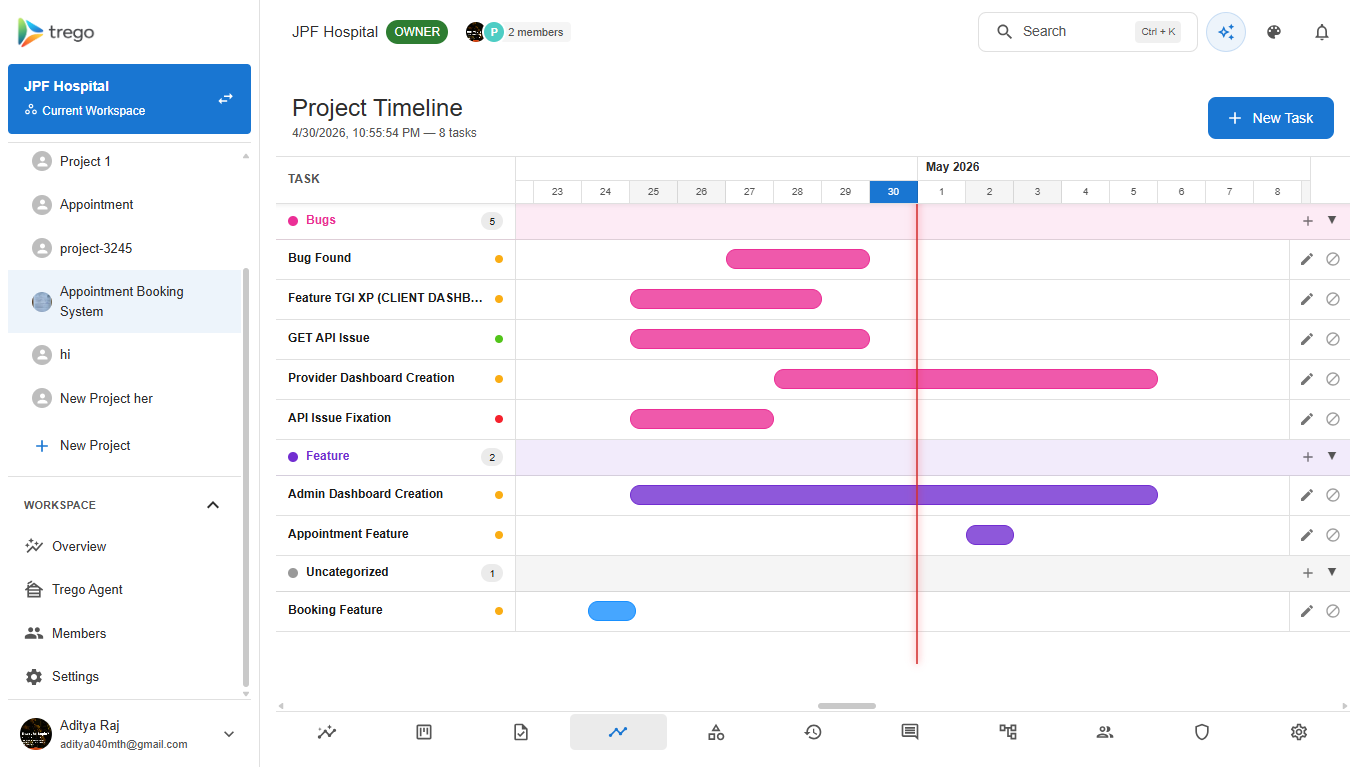
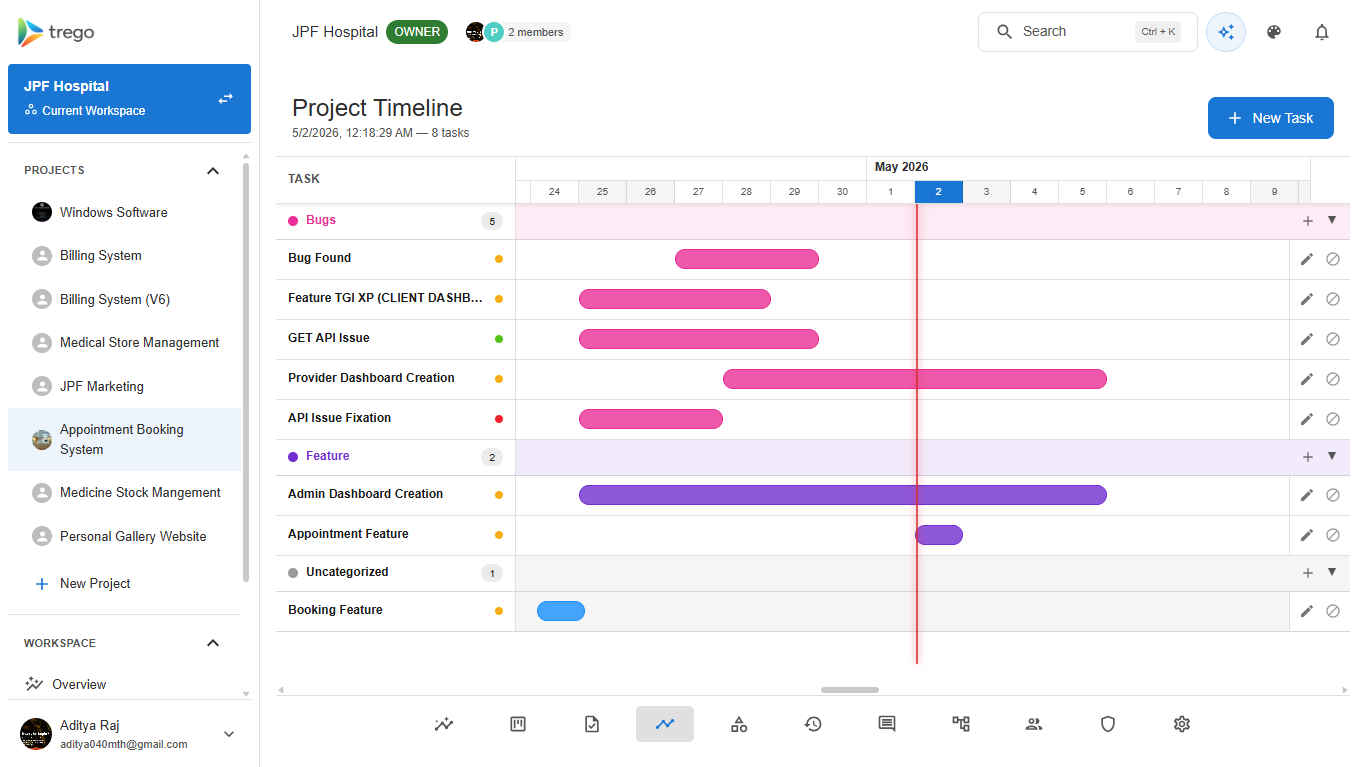
Updated the marketing content

diff --git a/client/src/components/marketing/home/HomePage.jsx b/client/src/components/marketing/home/HomePage.jsx
@@ -265,21 +265,18 @@ function HeroShowcase() {
       sx={{
         position: "relative",
         perspective: "1400px",
-        minHeight: { xs: 500, md: 640 },
+        minHeight: { xs: 500, md: 840 },
       }}
     >
       <MotionBox
         className="gsap-hero-screen"
-        animate={{ y: [0, -14, 0], rotateZ: [0, 0.35, 0] }}
-        transition={{ duration: 8, repeat: Infinity, ease: "easeInOut" }}
+        // transition={{ duration: 8, repeat: Infinity, ease: "easeInOut" }}
         sx={{
-          position: "absolute",
-          inset: { xs: "40px 0 auto 0", md: "40px 28px auto 28px" },
-          transformStyle: "preserve-3d",
         }}
       >
         <Box
           component="img"
+          mt={10}
           src="/images/timeline-dashboard.png"
           alt="Trego product dashboard"
           sx={{
@@ -288,10 +285,6 @@ function HeroShowcase() {
             objectFit: "contain",
             objectPosition: "center",
             borderRadius: 4,
-            border: `1px solid ${page.border}`,
-            boxShadow: "0 40px 120px rgba(15,23,42,0.18)",
-            transform: "rotateX(8deg) rotateY(-14deg)",
-            filter: "saturate(1.05) contrast(1.05)",
           }}
         />
       </MotionBox>
@@ -348,10 +341,6 @@ function ArtifactVisual({ type, color }) {
     position: "relative",
     minHeight: { xs: 360, md: 480 },
     overflow: "hidden",
-    borderRadius: 5,
-    border: `1px solid ${page.border}`,
-    bgcolor: "rgba(255,255,255,0.76)",
-    boxShadow: "0 34px 120px rgba(15,23,42,0.14)",
   };
 
   if (type === "workspace") {
@@ -361,8 +350,7 @@ function ArtifactVisual({ type, color }) {
           component="img"
           src="/images/workspace-overview.png"
           alt="Workspace creation screen"
-          style={{ transform: "translateY(10px)" }}
-          sx={{ position: "absolute", inset: 0, width: "100%", height: "100%", objectFit: "contain", opacity: 0.58 }}
+          sx={{ position: "absolute", inset: 0, width: "100%", height: "100%", objectFit: "contain" }}
         />
       </Box>
     );
@@ -411,7 +399,7 @@ function ArtifactVisual({ type, color }) {
           sx={{
             position: "absolute",
             inset: 0,
-            objectFit: "fill",
+            objectFit: "fit",
 
           }}
         />
@@ -437,11 +425,16 @@ function ArtifactVisual({ type, color }) {
         >
           {/* Kanban Board Mockup */}
           <Box sx={{ position: "absolute", top: 20, left: 20, right: 20, height: 220, bgcolor: "rgba(255,255,255,0.85)", border: `1px solid ${page.border}`, borderRadius: 4, p: 1.5, display: "flex", gap: 1.5, boxShadow: "0 20px 40px rgba(15,23,42,0.08)", backdropFilter: "blur(10px)" }}>
-            {[1, 2, 3].map(col => (
+            {[1, 2].map(col => (
               <Box key={col} sx={{ flex: 1, bgcolor: "rgba(15,23,42,0.03)", borderRadius: 2, p: 1 }}>
-                <Box sx={{ width: "50%", height: 6, bgcolor: "rgba(15,23,42,0.15)", borderRadius: 4, mb: 1.5 }} />
-                <Box sx={{ height: 44, bgcolor: "white", borderRadius: 1.5, mb: 1, border: `1px solid ${page.border}` }} />
-                {col === 2 && <Box sx={{ height: 58, bgcolor: "white", borderRadius: 1.5, border: `1px solid ${page.border}` }} />}
+                {col == 1 ? <Box component={'img'} src="/images/task-board.png" sx={{ width: '100%' }} />
+                  :
+                  <>
+                    <Box sx={{ width: "50%", height: 6, bgcolor: "rgba(15,23,42,0.15)", borderRadius: 4, mb: 1.5 }} />
+                    <Box sx={{ height: 44, bgcolor: "white", borderRadius: 1.5, mb: 1, border: `1px solid ${page.border}` }} />
+                    {col === 2 && <Box sx={{ height: 58, bgcolor: "white", borderRadius: 1.5, border: `1px solid ${page.border}` }} />}
+                  </>
+                }
               </Box>
             ))}
           </Box>
@@ -771,7 +764,7 @@ export default function HomePage() {
         .to(".gsap-hero-title", { autoAlpha: 1, y: 0, duration: 0.75 }, "-=0.28")
         .to(".gsap-hero-text", { autoAlpha: 1, y: 0, duration: 0.65 }, "-=0.42")
         .to(".gsap-hero-actions", { autoAlpha: 1, y: 0, duration: 0.55 }, "-=0.34")
-        .from(".gsap-hero-screen", { autoAlpha: 0, y: 60, rotateX: 18, rotateY: -28, duration: 1.1 }, "-=0.72")
+        .from(".gsap-hero-screen", { autoAlpha: 0, y: 60, duration: 1.1 }, "-=0.72")
         .from(".gsap-float-card, .gsap-people-card", { autoAlpha: 0, y: 26, scale: 0.94, stagger: 0.12, duration: 0.7 }, "-=0.46");
 
       gsap.to(".gsap-glow", {
@@ -788,15 +781,13 @@ export default function HomePage() {
       });
 
       gsap.to(".gsap-hero-screen", {
-        y: -200,
-        rotateY: -10,
-        rotateX: 10,
-        scale: 0.92,
+        // y: -200,/
+        scale: 1,
         ease: "none",
         scrollTrigger: {
           trigger: ".gsap-hero",
           start: "top top",
-          end: "bottom top",
+          end: "top 10%",
           scrub: 1.2,
         },
       });
@@ -931,17 +922,19 @@ export default function HomePage() {
         }}
       />
 
-      <Box className="gsap-hero" component="section" sx={{ position: "relative", minHeight: { xs: "auto", lg: "calc(100vh - 78px)" }, py: { xs: 7, md: 10 } }}>
+      <Box className="gsap-hero" component="section" sx={{ position: "relative", minHeight: { xs: "auto", lg: "calc(100vh - 78px)" }, py: { xs: 5, md: 8 } }}>
         <Container maxWidth="xl">
           <MotionBox
             sx={{
-              display: "grid",
-              gridTemplateColumns: { xs: "1fr", lg: "0.92fr 1.08fr" },
-              gap: { xs: 5, lg: 7 },
+              display: "flex",
+              flexDirection: 'column',
               alignItems: "center",
+              maxWidth: 900,
+              alignSelf: 'center',
+              justifySelf: 'center'
             }}
           >
-            <Stack spacing={3.2}>
+            <Stack spacing={3.2} alignItems={'center'} justifyContent={'center'}>
               <Stack className="gsap-hero-kicker" direction="row" spacing={1} flexWrap="wrap" useFlexGap>
                 <Chip
                   icon={<AutoAwesomeOutlinedIcon sx={{ color: `${page.cyan} !important` }} />}
@@ -950,7 +943,7 @@ export default function HomePage() {
                 />
                 <Chip
                   label="Final-project grade SaaS experience"
-                  sx={{ color: page.text, bgcolor: "rgba(255,255,255,0.86)", border: `1px solid ${page.border}` }}
+                  sx={{ color: page.text, bgcolor: "rgba(255,255,255,0.86)", display: { xs: 'none', sm: "flex" }, border: `1px solid ${page.border}` }}
                 />
               </Stack>
               <Typography
@@ -958,20 +951,25 @@ export default function HomePage() {
                 component="h1"
                 sx={{
                   color: page.text,
-                  fontSize: { xs: 48, sm: 68, md: 88 },
+                  textAlign: 'center',
+                  fontSize: { xs: 38, sm: 48, md: 68 },
                   lineHeight: 0.94,
                   fontWeight: 500,
                   letterSpacing: 0,
-                  maxWidth: 980,
                 }}
               >
                 Watch a workspace turn into an AI-run delivery system.
               </Typography>
-              <Typography className="gsap-hero-text" sx={{ color: page.muted, fontSize: { xs: 17, md: 21 }, lineHeight: 1.75, maxWidth: 760 }}>
+              <Typography className="gsap-hero-text"
+                sx={{
+                  color: page.muted,
+                  textAlign: "center",
+                  fontSize: { xs: 17 },
+                }}>
                 Trego is not just a list of features. It is a flow: create the workspace, build the workflow, assign
                 tasks, inspect with AI chat, and keep every move secure in realtime.
               </Typography>
-              <Stack className="gsap-hero-actions" direction={{ xs: "column", sm: "row" }} spacing={1.5}>
+              <Stack className="gsap-hero-actions" justifyContent={{ xs: 'center' }} width={{ xs: '100%', sm: 'auto' }} direction={{ xs: "column", sm: "row" }} spacing={1.5}>
                 <Button
                   component={RouterLink}
                   to="/sign-up"
@@ -1018,24 +1016,6 @@ export default function HomePage() {
 
         <Container maxWidth="xl" sx={{ py: { xs: 7, md: 12 } }}>
           <Stack spacing={{ xs: 8, md: 13 }}>
-            <Reveal>
-              <Box
-                sx={{
-                  display: "grid",
-                  gridTemplateColumns: { xs: "1fr 1fr", md: "repeat(4, 1fr)" },
-                  gap: 1.5,
-                }}
-              >
-                {stats.map(([value, label]) => (
-                  <GlassSurface key={label} sx={{ p: { xs: 2, md: 3 } }}>
-                    <Typography sx={{ color: page.text, fontSize: { xs: 34, md: 46 }, lineHeight: 1, fontWeight: 500 }}>
-                      {value}
-                    </Typography>
-                    <Typography sx={{ color: page.muted, mt: 1 }}>{label}</Typography>
-                  </GlassSurface>
-                ))}
-              </Box>
-            </Reveal>
 
             <Reveal sx={{ scrollMarginTop: 100 }}>
               <Box component="section" id="product">
@@ -1112,32 +1092,56 @@ export default function HomePage() {
                   spacing={3}
                 >
                   <Box sx={{ maxWidth: 780 }}>
-                    <Typography sx={{ color: page.text, fontSize: { xs: 36, md: 62 }, lineHeight: 1.02, fontWeight: 500 }}>
-                      Make the final project feel like a funded SaaS demo.
+                    <Typography
+                      sx={{
+                        color: page.text,
+                        fontSize: { xs: 34, md: 58 },
+                        lineHeight: 1.04,
+                        fontWeight: 500,
+                      }}
+                    >
+                      Build workflows that actually feel production-ready.
                     </Typography>
-                    <Typography sx={{ color: page.muted, mt: 1.5, fontSize: 18, lineHeight: 1.75 }}>
-                      A dark cinematic homepage, real product screenshots, people visuals, AI chat, and a clear system
-                      story from workspace to workflow execution.
+
+                    <Typography
+                      sx={{
+                        color: page.muted,
+                        mt: 2,
+                        fontSize: 18,
+                        lineHeight: 1.8,
+                        maxWidth: 680,
+                      }}
+                    >
+                      From workspaces and project roles to AI-assisted workflows, task
+                      transitions, notifications, and analytics — Trego delivers the structure
+                      of a real enterprise collaboration platform.
                     </Typography>
+
+                    <Box
+                      sx={{
+                        mt: 4,
+                        display: "flex",
+                        gap: 2,
+                        flexWrap: "wrap",
+                      }}
+                    >
+                      <Button
+                      endIcon={<ArrowForwardRoundedIcon />}
+                        component={RouterLink}
+                        to="/sign-up"
+                        variant="contained"
+                        size="large"
+                        sx={{
+                          px: 3.5,
+                          py: 1.3,
+                          borderRadius: "14px",
+                        }}
+                      >
+                        Explore The Platform
+                      </Button>
+                    </Box>
                   </Box>
-                  <Button
-                    component={RouterLink}
-                    to="/sign-up"
-                    variant="contained"
-                    color="primary"
-                    size="large"
-                    endIcon={<ArrowForwardRoundedIcon />}
-                    sx={{
-                      borderRadius: 999,
-                      px: 3.5,
-                      py: 1.4,
-                      textTransform: "none",
-                      fontWeight: 500,
-                      whiteSpace: "nowrap",
-                    }}
-                  >
-                    Open Trego
-                  </Button>
+              
                 </Stack>
               </Box>
             </Reveal>
@@ -1146,6 +1150,6 @@ export default function HomePage() {
 
         <Footer />
       </Box>
-    </Box>
+    </Box >
   );
 }
